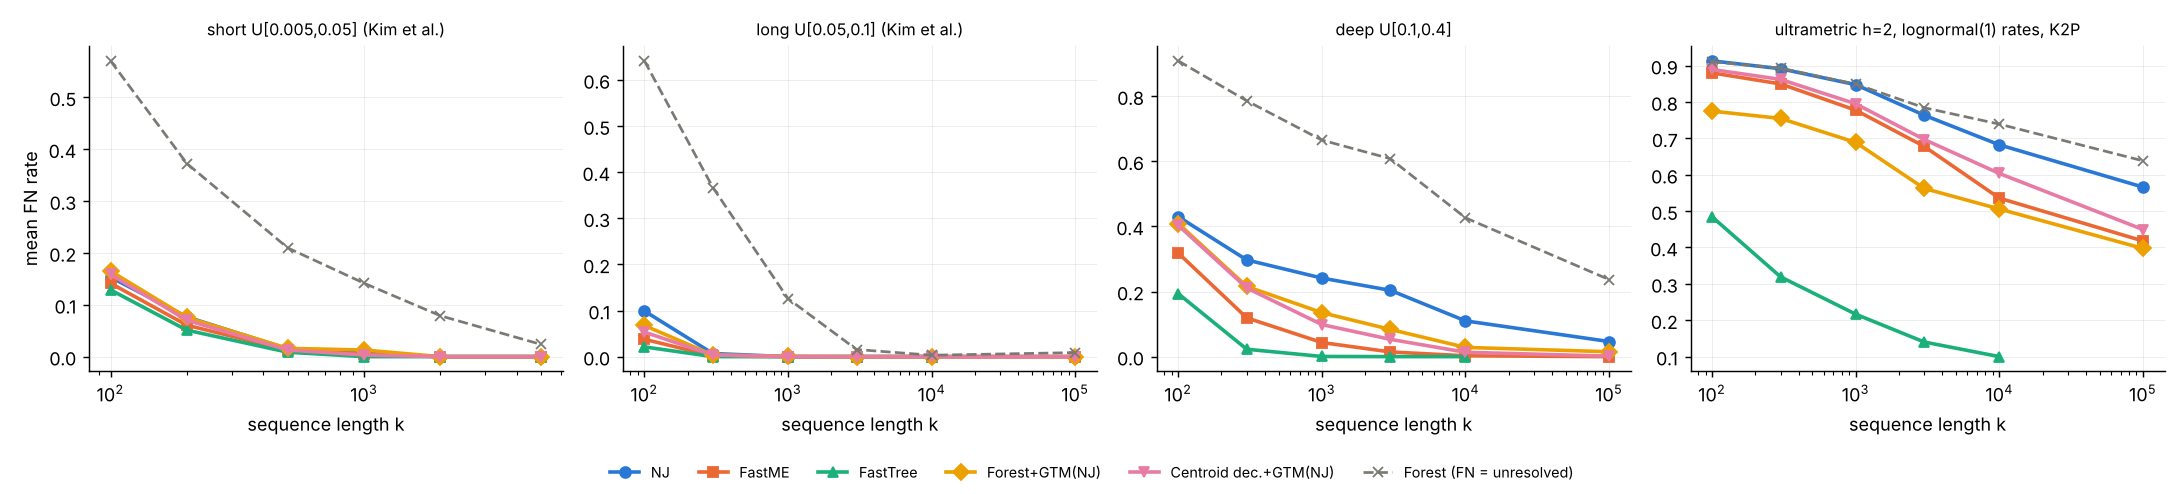
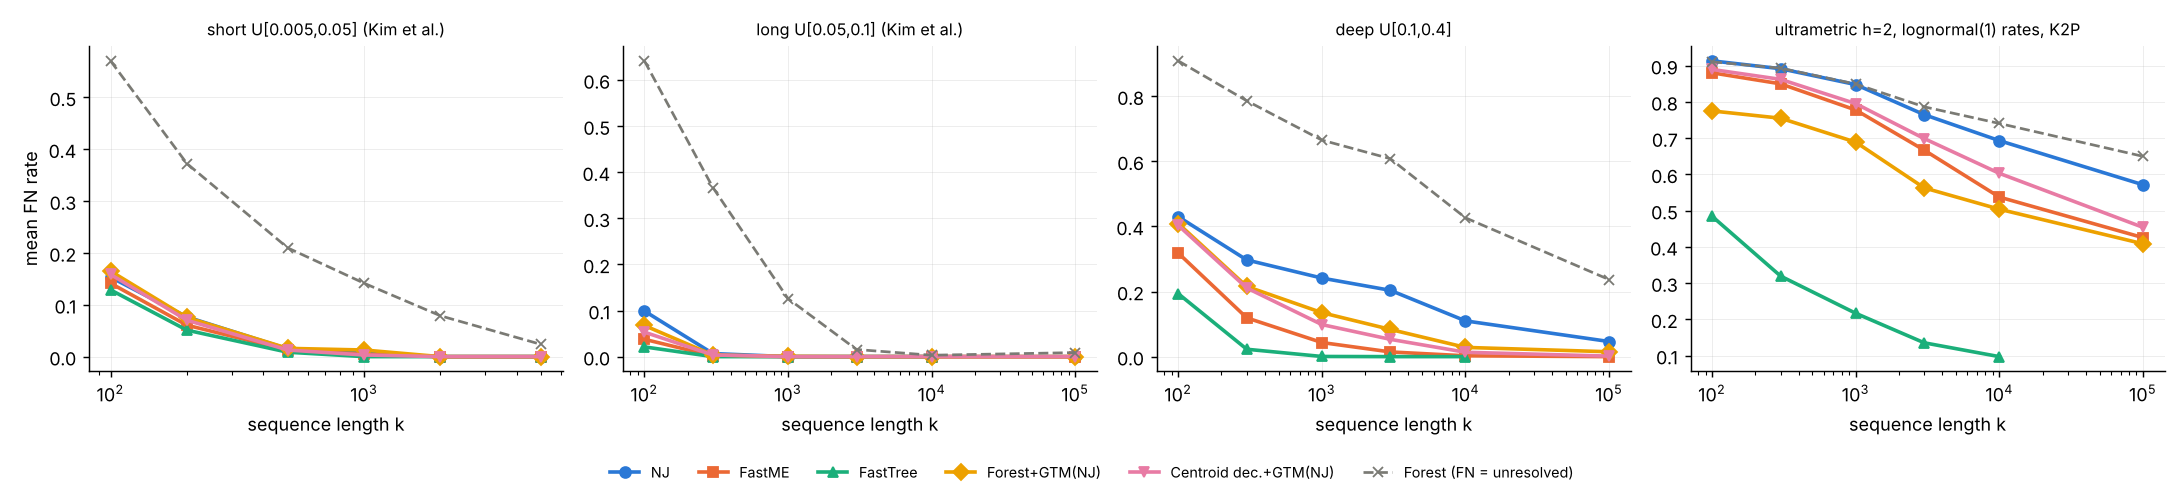
forest: REPORT results, follow-up, verdict; plots

diff --git a/cs581/forest/code/analyze.py b/cs581/forest/code/analyze.py
@@ -152,6 +152,26 @@ def main():
     fig.legend(h, l, loc="lower center", ncol=6, fontsize=8, frameon=False)
     fig.tight_layout(rect=(0, 0.08, 1, 1))
     fig.savefig(os.path.join(R, "fn_vs_k.png"), dpi=130)
+    if os.path.exists(ff) and not du.empty:
+        fig, axes = plt.subplots(1, 2, figsize=(8.8, 3.8))
+        ser = [("FastME_cap2", "#2a78d6", "o", "-", "FastME, cap2 (main)"),
+               ("FGTM_FastME", "#2a78d6", "o", "--", "Forest+GTM(FastME), cap2"),
+               ("FastME_pcap", "#eb6834", "s", "-", "FastME, p clipped"),
+               ("FGTM_FastME_pcap", "#eb6834", "s", "--", "Forest+GTM(FastME), p clipped")]
+        for ax, reg in zip(axes, ["U:0.1:0.4", "UH:2.0:1.0"]):
+            g = du[du.regime == reg].groupby("k")
+            for c, col, mk, ls, lab in ser:
+                v = g[f"FN_{c}"].mean()
+                ax.plot(v.index, v.values, color=col, marker=mk, ls=ls, lw=2, ms=6, label=lab)
+            ax.set_xscale("log"); ax.set_title(REG_NAME[reg], fontsize=9); ax.set_xlabel("sequence length k")
+            ax.grid(alpha=0.25, lw=0.5)
+            for sp in ("top", "right"):
+                ax.spines[sp].set_visible(False)
+        axes[0].set_ylabel("mean FN rate")
+        h, l = axes[0].get_legend_handles_labels()
+        fig.legend(h, l, loc="lower center", ncol=2, fontsize=8, frameon=False)
+        fig.tight_layout(rect=(0, 0.14, 1, 1))
+        fig.savefig(os.path.join(R, "saturation_followup.png"), dpi=130)
     print("\n".join(out))
 
 

diff --git a/cs581/forest/REPORT.md b/cs581/forest/REPORT.md
@@ -127,4 +127,206 @@ and:
 dropped; p = 1 when all differences are zero). No multiple-testing correction; with 20 replicates
 p < 0.01 is the bar I treat as a real difference.
 
-RESULTS_PLACEHOLDER
+## 5. Results
+
+Full tables (every method, every cell, all paired tests, Kim-style success rates): `results/summary.md`.
+Raw per-replicate records: `results/main.jsonl` (480 replicates, 0 errors), `results/followup.jsonl` (60),
+`results/large.jsonl` (n = 500), `results/main_coarsegrid.jsonl` (same 480 datasets, coarser Forest grid).
+
+![FN rate vs sequence length](results/fn_vs_k.png)
+
+### 5.1 Mean FN rate (main run, 20 replicates per cell; n = 100, short regime n = 50)
+
+| regime | k | NJ | FastME | FastTree | Forest (FN / FP) | F+GTM(NJ) | F+GTM(FastME) | comps-only+GTM(NJ) | centroid+GTM(NJ) |
+|---|---|---|---|---|---|---|---|---|---|
+| short | 100 | 0.153 | 0.141 | 0.129 | 0.570 / 0.05 | 0.165 | 0.153 | 0.155 | 0.159 |
+| short | 200 | 0.077 | 0.061 | 0.051 | 0.372 / 0.01 | 0.076 | 0.066 | 0.073 | 0.070 |
+| short | 1000 | 0.006 | 0.004 | 0.000 | 0.141 / 0.01 | 0.013 | 0.011 | 0.006 | 0.003 |
+| long | 100 | 0.099 | 0.038 | 0.021 | 0.641 / 0.01 | 0.068 | 0.042 | 0.066 | 0.053 |
+| long | 300 | 0.007 | 0.002 | 0.000 | 0.366 / 0.00 | 0.004 | 0.003 | 0.003 | 0.004 |
+| long | ≥ 1000 | ≤ 0.001 | 0 | 0 | ≤ 0.13 | ≤ 0.001 | ≤ 0.001 | 0 | 0 |
+| deep | 100 | 0.430 | 0.318 | 0.193 | 0.908 / 0.01 | 0.409 | 0.312 | 0.410 | 0.403 |
+| deep | 300 | 0.297 | 0.119 | 0.023 | 0.786 / 0.01 | 0.215 | 0.112 | 0.216 | 0.211 |
+| deep | 1000 | 0.241 | 0.043 | 0.001 | 0.665 / 0.01 | 0.135 | 0.041 | 0.138 | 0.098 |
+| deep | 3000 | 0.204 | 0.014 | 0.000 | 0.608 / 0.01 | 0.084 | 0.014 | 0.088 | 0.053 |
+| deep | 10 000 | 0.110 | 0.003 | 0.000 | 0.426 / 0.00 | 0.028 | 0.003 | 0.044 | 0.013 |
+| deep | 100 000 | 0.046 | 0.000 | — | 0.237 / 0.01 | 0.015 | 0.003 | 0.022 | 0.002 |
+| het | 100 | 0.913 | 0.880 | 0.484 | 0.910 / 0.21 | 0.775 | 0.761 | 0.829 | 0.889 |
+| het | 300 | 0.891 | 0.849 | 0.319 | 0.893 / 0.09 | 0.755 | 0.726 | 0.798 | 0.862 |
+| het | 1000 | 0.847 | 0.777 | 0.216 | 0.849 / 0.03 | 0.689 | 0.642 | 0.716 | 0.795 |
+| het | 3000 | 0.764 | 0.666 | 0.135 | 0.786 / 0.01 | 0.562 | 0.523 | 0.569 | 0.698 |
+| het | 10 000 | 0.693 | 0.537 | 0.097 | 0.740 / 0.00 | 0.504 | 0.405 | 0.507 | 0.603 |
+| het | 100 000 | 0.571 | 0.425 | — | 0.649 / 0.00 | 0.408 | 0.319 | 0.411 | 0.454 |
+
+(F+GTM = Forest+GTM with subset re-estimation; the "induced" refinement variant is worse in every
+hard cell and is listed only in `summary.md`. BIONJ sits between NJ and FastME throughout.)
+
+**Kim et al.-style success rates, short regime (n = 50, 20 replicates):**
+
+| k | P(NJ has no false split) | P(Forest has no false split) | P(Forest fully resolved & correct) | Forest #splits (of 47) |
+|---|---|---|---|---|
+| 100 | 0.00 | 0.40 | 0.00 | 21.4 |
+| 200 | 0.00 | 0.65 | 0.00 | 29.9 |
+| 500 | 0.50 | 0.95 | 0.00 | 37.2 |
+| 1000 | 0.75 | 0.80 | 0.00 | 40.6 |
+| 2000 | 1.00 | 1.00 | 0.00 | 43.3 |
+
+This reproduces the paper's qualitative finding (their Figs. 3 and 5a): with short branches,
+Forest avoids false splits at much shorter k than NJ, but it needs far longer sequences to be fully resolved.
+
+### 5.2 Paired tests (FN rate, A − B; W/T/L with tie band < 1 split; two-sided Wilcoxon, 20 pairs)
+
+| regime | k | F+GTM(NJ) − NJ | F+GTM(FastME) − FastME | F+GTM(NJ) − comps-only+GTM(NJ) | F+GTM(NJ) − centroid+GTM(NJ) | F+GTM(FastME) − FastTree |
+|---|---|---|---|---|---|---|
+| short | 100 | +0.012 (1/10/9, p=0.008) | +0.012 (2/11/7, p=0.04) | +0.010 (0/14/6, p=0.03) | +0.006 (5/7/8, p=0.3) | +0.024 (3/4/13, p=0.03) |
+| short | 1000 | +0.006 (0/16/4, p=0.06) | +0.006 (0/16/4, p=0.06) | +0.006 (0/16/4, p=0.06) | +0.010 (0/13/7, p=0.01) | +0.011 (0/13/7, p=0.02) |
+| long | 100 | −0.031 (18/2/0, p=2e-4) | +0.004 (3/9/8, p=0.09) | +0.002 (0/18/2, p=0.18) | +0.014 (4/2/14, p=0.02) | +0.021 (1/4/15, p=8e-4) |
+| long | 300 | −0.003 (6/13/1, p=0.06) | +0.001 (0/18/2, p=0.16) | +0.001 (0/19/1, p=0.32) | 0.000 (3/14/3, p=1) | +0.003 (0/16/4, p=0.06) |
+| deep | 300 | −0.081 (20/0/0, p=9e-5) | −0.007 (11/6/3, p=0.03) | −0.001 (3/15/2, p=0.49) | +0.005 (8/3/9, p=0.54) | +0.089 (0/0/20, p=9e-5) |
+| deep | 1000 | −0.106 (20/0/0, p=9e-5) | −0.003 (7/11/2, p=0.17) | −0.003 (3/15/2, p=0.28) | +0.037 (4/0/16, p=0.003) | +0.040 (0/0/20, p=8e-5) |
+| deep | 3000 | −0.120 (20/0/0, p=9e-5) | 0.000 (3/14/3, p=0.59) | −0.004 (6/13/1, p=0.15) | +0.030 (3/1/16, p=0.006) | +0.014 (0/3/17, p=2e-4) |
+| deep | 10 000 | −0.081 (19/1/0, p=1e-4) | +0.001 (0/19/1, p=0.32) | −0.016 (6/13/1, p=0.06) | +0.015 (3/4/13, p=0.007) | +0.003 (0/15/5, p=0.03) |
+| het | 100 | −0.138 (20/0/0, p=9e-5) | −0.119 (20/0/0, p=9e-5) | −0.054 (15/4/1, p=6e-4) | −0.114 (19/0/1, p=1e-4) | +0.277 (0/0/20, p=9e-5) |
+| het | 1000 | −0.159 (20/0/0, p=9e-5) | −0.135 (20/0/0, p=9e-5) | −0.027 (7/12/1, p=0.02) | −0.106 (16/0/4, p=5e-4) | +0.426 (0/0/20, p=9e-5) |
+| het | 10 000 | −0.189 (20/0/0, p=9e-5) | −0.132 (20/0/0, p=2e-6) | −0.003 (2/17/1, p=0.29) | −0.099 (17/1/2, p=3e-4) | +0.308 (0/0/20, p=9e-5) |
+| het | 100 000 | −0.163 (20/0/0, p=9e-5) | −0.107 (20/0/0, p=9e-5) | −0.003 (1/19/0, p=0.32) | −0.045 (17/0/3, p=0.008) | — |
+
+(All 24 cells are in `results/summary.md`; omitted rows are all-tie or say the same thing.)
+
+**Reading.**
+
+1. **Kim et al.'s regimes (short, long): no headroom.** Everything is near zero by k = 300–1000. At
+   k = 100 Forest+GTM is slightly *worse* than NJ in the short regime (+0.012, p = 0.008): the
+   Forest's few false splits are hard constraints that GTM must keep. The one win, F+GTM(NJ) vs NJ
+   in the long regime at k = 100 (−0.031), is smaller than just using FastME (−0.061), and
+   F+GTM(FastME) does not beat FastME.
+2. **Deep regime: Forest+GTM(NJ) beats NJ by 8–12 FN points (20/0/0)**, but the Forest itself is not
+   the reason. Dropping all Forest splits and keeping only its components gives the same
+   accuracy (comps-only − F+GTM within 0.016, p ≥ 0.06). A standard centroid decomposition with no
+   Forest is *better* for k = 1000–10 000 (by 0.015–0.037, p ≤ 0.007). With a FastME guide there is
+   nothing to gain: F+GTM(FastME) − FastME is between −0.007 and +0.003. FastTree is 4–12 points
+   better than every distance pipeline at k ≤ 1000.
+3. **Rate-heterogeneous K2P regime: large, consistent wins (−0.11 to −0.20 FN vs NJ and FastME,
+   20/0/0), but they come from an artifact (§5.3).** This is the only regime where the Forest's own
+   splits add anything beyond its components (−0.054 at k = 100, −0.027 at k = 1000), and it is also the
+   regime where FastTree is 28–43 points better.
+
+### 5.3 Follow-up: the het-regime win is a saturation-handling artifact
+
+In the main run, saturated distances (undefined JC/K2P correction) were replaced by 2 × the largest
+finite distance (cap2) before NJ/FastME. In the het regime, 17–56 % of pairs are saturated. Same
+datasets, 10 replicates per cell (`code/followup.py`, `results/followup.jsonl`):
+
+![saturation follow-up](results/saturation_followup.png)
+
+| regime | k | FastME cap2 | FastME cap1.2 | FastME cap5 | FastME p-clipped | F+GTM(FastME) cap2 | F+GTM(FastME) p-clipped | F+GTM − FastME, p-clipped |
+|---|---|---|---|---|---|---|---|---|
+| deep | 300 | 0.101 | 0.037 | 0.335 | 0.098 | 0.092 | 0.097 | −0.001 (2/7/1, p=0.75) |
+| deep | 3000 | 0.015 | 0.001 | 0.053 | 0.002 | 0.015 | 0.004 | +0.002 (0/8/2, p=0.5) |
+| deep | 100 000 | 0.000 | 0.000 | 0.001 | 0.000 | 0.004 | 0.004 | +0.004 (0/7/3, p=0.25) |
+| het | 300 | 0.821 | 0.765 | 0.869 | 0.373 | 0.687 | 0.390 | +0.017 (4/2/4, p=0.31) |
+| het | 3000 | 0.666 | 0.589 | 0.701 | 0.251 | 0.519 | 0.238 | −0.012 (6/2/2, p=0.12) |
+| het | 100 000 | 0.373 | 0.330 | 0.448 | 0.145 | 0.275 | 0.118 | −0.028 (9/0/1, p=0.004) |
+
+("p-clipped": the mismatch proportion is clipped at 0.75(1 − 1/√k) for JC, or transversions at
+0.5(1 − 1/√k) for K2P, before the correction, so no distance is infinite.)
+
+* How saturated pairs are handled moves FastME by **up to 45 FN points**, far more than any merger
+  effect. Under cap2, Forest+GTM "wins" because the Forest's threshold graph (d < m) simply never
+  uses the corrupted distances. A better distance correction removes most of that advantage.
+* With clipped distances, Forest+GTM(FastME) vs FastME is a tie at k = 300 and 3000. At k = 100 000 it
+  wins by 2.8 points (9/0/1, p = 0.004), and FastTree is already better at a tenth of that length (0.097 FN at k = 10 000).
+* In the deep regime, a different cap (1.2 instead of 2) helps FastME more (0.101 → 0.037 at
+  k = 300) than Forest+GTM does (0.101 → 0.092).
+* The FastME-guided controls again match: comps-only + GTM(FastME) = F+GTM(FastME) within 0.025 in every cell.
+
+### 5.4 Sensitivity to the Forest grid
+
+The same 480 datasets were also run with a coarser grid (7 τ × 5 m × 2 M instead of 10 × 7 × 2,
+`results/main_coarsegrid.jsonl`). The denser grid yields 1.5–6 more Forest splits per tree and
+slightly more false ones (0.03–0.17 more per tree). Merged accuracy changes by ≤ 0.013 FN in every
+regime (deep: F+GTM(NJ) 0.161 → 0.148; het: 0.619 → 0.615). The conclusions do not depend on the grid.
+
+LARGE_PLACEHOLDER
+
+## 6. Runtime
+
+Mean wall-clock seconds per replicate (one core per replicate; 4–8 replicates were sharing 4 cores, so all numbers are inflated by up to ~2×):
+
+| regime, n | k | NJ | FastME | FastTree | Forest grid search (≈ 140 points) | Forest+GTM total | centroid + GTM |
+|---|---|---|---|---|---|---|---|
+| short, 50 | 100–5000 | 0.01 | 0.02 | 0.2–8 | 0.6–1.8 | 0.9–2.2 | 0.3 |
+| long, 100 | 100–100 000 | 0.1 | 0.1 | 0.4–44 | 3–11 | 3–12 | 0.4 |
+| deep, 100 | 100–100 000 | 0.1 | 0.1 | 0.6–45 | 5–13 | 6–13 | 0.4 |
+| het, 100 | 100–100 000 | 0.05 | 0.1 | 1–66 | 13–66 | 14–67 | 0.3 |
+| deep, 500 | 300 | 1.8 | 8.6 | 7.3 | 206 (reduced grid, 18 points) | 209 | 2.2 |
+
+The GTM merge itself takes < 0.5 s. The Forest grid search costs 10–1000 × NJ. My re-implementation is
+40–80 × faster per grid point than distphylo (0.17 s vs 8–15 s at n = 128), but each point is still
+Θ(n²) leaf pairs × a sort over the ball, i.e. ≈ n³ log n. At n = 500 one replicate takes 3–5 min even
+with the reduced grid, and n = 1000 would take ~30–60 min per replicate. (Kim et al. report 13.6 h for
+one n = 1000 grid.) FastTree is the slowest baseline only at k ≥ 10 000.
+
+## 7. Verdict: **not promising** (as a "beat the baselines" project)
+
+* In the regimes Kim et al. use, nothing is left to gain: NJ/FastME are almost perfect by k = 300–1000,
+  and Forest+GTM is equal or slightly worse (forced false splits).
+* Where Forest+GTM(NJ) does beat NJ (deep trees, 8–12 points), the gain comes from the DCM/DTM
+  mechanism (small subsets re-estimated, then merged), not from the Forest. Forest components
+  without Forest splits do equally well, and an ordinary centroid decomposition + GTM does
+  better. With a FastME guide the improvement disappears.
+* The only large win (het regime, 10–20 points) comes from the baseline's handling of saturated
+  distances. With a sensible distance correction it shrinks to a tie, or 2.8 points at k = 100 000.
+* FastTree beats every distance-based pipeline by a wide margin in every hard cell (e.g. deep k = 300:
+  0.023 vs 0.112; het k = 1000: 0.22 vs 0.64). The comparison a CS581 reader will ask for is lost before it starts.
+* The Forest is expensive (≈ n³ log n per grid point, ~140 grid points) for what it delivers.
+  Its components are what matter, and those are just the connected components of the threshold
+  graph d < m, i.e. a DCM-style decomposition that costs O(n²).
+
+**What *is* solid and reusable from the pilot:** a fast, validated DMR Forest implementation
+(identical to distphylo on 102/102 grid points, 40–80 × faster); a true-tree-free hyperparameter rule
+that reaches 95/125 correct splits on distphylo's example (their dense grid, set with knowledge of the
+true tree, reaches 99); and a clean negative result with the right controls.
+
+### If someone still wants a 4-week project here
+
+The defensible versions are about *understanding*, not leaderboard wins:
+
+1. **"Is the Forest worth it inside DCM?"** (the cleanest result from this pilot). Compare Forest
+   components vs threshold-graph components vs centroid decomposition vs DCM1 padding, all + GTM,
+   on deep / heterogeneous model trees (Huson–Nettles–Warnow style), with NJ, FastME and FastTree as
+   subset and guide methods. Expected answer: the threshold graph does the work. Week 1 is
+   done (this pilot); weeks 2–3 are DCM1 / overlapping subsets with a supertree merger and
+   n = 500–1000 using the fast code; week 4 is the write-up.
+2. **Forest components as constraints for ML** (Kim et al.'s third hybrid): give
+   IQ-TREE / FastTree `-constraints` the Forest's (rarely wrong) splits and test whether short-sequence ML
+   gets better or just faster. The risk is that FastTree is already near-perfect where the Forest is
+   resolved.
+3. **Theory side:** under what branch-length conditions do the Forest's components equal those
+   of the plain threshold graph, so that MiniContractor/Extender add nothing for DTM purposes?
+
+### Risks / caveats of this pilot
+
+* One implementation of each step: GTM in its default `convex` mode only, no TreeMerge/NJMerge.
+  The subset refinement is my choice, forced by GTM's loader resolving polytomies arbitrarily.
+* Distances are model-matched (JC/JC, K2P/K2P). No gamma rate heterogeneity across sites and no
+  model misspecification, which is the setting where Kim et al. found Forest most robust (their Fig. 7).
+* 20 replicates per cell, n ≤ 100 for the main grid; n = 500 only with a reduced grid and 5 replicates.
+* The Forest hyperparameter rule is mine (following the paper's guidance). A rule tuned per regime
+  could add splits, but §5.4 suggests the merged tree would barely change.
+* FastTree was not run at k = 100 000 (~4 min per run); every method is ≈ 0 there in the easy regimes.
+
+## Reproducing
+
+```
+# tools: FastME 2.1.6, IQ-TREE 3.1.4 (AliSim) via micromamba/bioconda; FastTree 2.1.11 (apt);
+# python: numpy scipy pandas dendropy networkx biopython matplotlib
+git clone https://github.com/lanl/distphylo ~/ext/distphylo; git clone https://github.com/vlasmirnov/GTM ~/ext/GTM
+python code/validate_small.py ~/ext/distphylo results/validation_small.tsv
+python code/validate_forest.py ~/ext/distphylo results/validation_distphylo_0.tsv 0   # grid point 0..4
+python code/run_exp.py results/main.jsonl main 4      # restartable
+python code/followup.py results/followup.jsonl 4
+python code/run_exp.py results/large.jsonl large 4
+python code/analyze.py results                        # -> results/summary.md, *.png
+```
+Binary paths can be overridden with FASTME, FASTTREE, IQTREE and GTM environment variables (`code/pipeline.py`).

diff --git a/cs581/forest/results/summary.md b/cs581/forest/results/summary.md
@@ -1,4 +1,4 @@
-Replicates: 477 ok, 0 errors.
+Replicates: 480 ok, 0 errors.
 
 
 ### short U[0.005,0.05] (Kim et al.), n=50
@@ -203,9 +203,9 @@ Mean FN rate (FP rate for Forest in brackets; Forest FN = 1 - correct splits/(n-
 | 100 | 20 | 0.53 | 0.913 | 0.854 | 0.880 | 0.484 | 0.910 [0.184] | 0.775 | 0.827 | 0.761 | 0.804 | 0.829 | 0.889 | 15.6 | 2.45 |
 | 300 | 20 | 0.48 | 0.891 | 0.811 | 0.849 | 0.319 | 0.893 [0.163] | 0.755 | 0.796 | 0.726 | 0.769 | 0.798 | 0.862 | 15.2 | 2.05 |
 | 1000 | 20 | 0.44 | 0.847 | 0.756 | 0.777 | 0.216 | 0.849 [0.030] | 0.689 | 0.745 | 0.642 | 0.710 | 0.716 | 0.795 | 21.8 | 0.40 |
-| 3000 | 19 | 0.35 | 0.763 | 0.678 | 0.678 | 0.140 | 0.784 [0.017] | 0.562 | 0.653 | 0.531 | 0.610 | 0.569 | 0.697 | 21.9 | 0.26 |
-| 10000 | 19 | 0.23 | 0.682 | 0.600 | 0.536 | 0.100 | 0.739 [0.010] | 0.506 | 0.585 | 0.405 | 0.483 | 0.509 | 0.603 | 22.3 | 0.21 |
-| 100000 | 19 | 0.18 | 0.566 | 0.468 | 0.418 | — | 0.638 [0.000] | 0.397 | 0.475 | 0.310 | 0.361 | 0.397 | 0.449 | 20.3 | 0.00 |
+| 3000 | 20 | 0.35 | 0.764 | 0.675 | 0.666 | 0.135 | 0.786 [0.016] | 0.562 | 0.654 | 0.523 | 0.601 | 0.569 | 0.698 | 22.1 | 0.25 |
+| 10000 | 20 | 0.23 | 0.693 | 0.614 | 0.537 | 0.097 | 0.740 [0.010] | 0.504 | 0.590 | 0.405 | 0.488 | 0.507 | 0.603 | 21.9 | 0.20 |
+| 100000 | 20 | 0.19 | 0.571 | 0.470 | 0.425 | — | 0.649 [0.000] | 0.408 | 0.482 | 0.319 | 0.371 | 0.411 | 0.454 | 19.4 | 0.00 |
 
 Paired two-sided Wilcoxon on FN rate (A − B; negative = A better). W/T/L = A better / tie / A worse, tie band |diff| < 0.5/(n−3) (less than one split).
 
@@ -229,23 +229,23 @@ Paired two-sided Wilcoxon on FN rate (A − B; negative = A better). W/T/L = A b
 | 1000 | Forest+GTM(NJ) | Forest comps only+GTM(NJ) | -0.0273 | 7/12/1 | 0.017 |
 | 1000 | Forest+GTM(NJ) | Centroid dec.+GTM(NJ) | -0.1062 | 16/0/4 | 0.00051 |
 | 1000 | Forest+GTM(NJ) | FastTree | +0.4722 | 0/0/20 | 8.8e-05 |
-| 3000 | Forest+GTM(NJ) | NJ | -0.2013 | 19/0/0 | 0.00013 |
-| 3000 | Forest+GTM(FastME) | FastME | -0.1470 | 19/0/0 | 0.00013 |
-| 3000 | Forest+GTM(NJ) | FastME | -0.1156 | 16/1/2 | 0.00033 |
-| 3000 | Forest+GTM(NJ) | Forest comps only+GTM(NJ) | -0.0065 | 2/17/0 | 0.18 |
-| 3000 | Forest+GTM(NJ) | Centroid dec.+GTM(NJ) | -0.1346 | 17/1/1 | 0.00023 |
-| 3000 | Forest+GTM(NJ) | FastTree | +0.4221 | 0/0/19 | 0.00013 |
-| 10000 | Forest+GTM(NJ) | NJ | -0.1763 | 19/0/0 | 0.00013 |
-| 10000 | Forest+GTM(FastME) | FastME | -0.1308 | 19/0/0 | 3.8e-06 |
-| 10000 | Forest+GTM(NJ) | FastME | -0.0298 | 11/0/8 | 0.46 |
-| 10000 | Forest+GTM(NJ) | Forest comps only+GTM(NJ) | -0.0033 | 2/16/1 | 0.29 |
-| 10000 | Forest+GTM(NJ) | Centroid dec.+GTM(NJ) | -0.0977 | 16/1/2 | 0.00049 |
-| 10000 | Forest+GTM(NJ) | FastTree | +0.4059 | 0/0/19 | 0.00013 |
-| 100000 | Forest+GTM(NJ) | NJ | -0.1687 | 19/0/0 | 0.00013 |
-| 100000 | Forest+GTM(FastME) | FastME | -0.1074 | 19/0/0 | 0.00013 |
-| 100000 | Forest+GTM(NJ) | FastME | -0.0206 | 10/1/8 | 0.28 |
-| 100000 | Forest+GTM(NJ) | Forest comps only+GTM(NJ) | +0.0000 | 0/19/0 | 1 |
-| 100000 | Forest+GTM(NJ) | Centroid dec.+GTM(NJ) | -0.0521 | 17/0/2 | 0.0019 |
+| 3000 | Forest+GTM(NJ) | NJ | -0.2021 | 20/0/0 | 8.8e-05 |
+| 3000 | Forest+GTM(FastME) | FastME | -0.1433 | 20/0/0 | 8.8e-05 |
+| 3000 | Forest+GTM(NJ) | FastME | -0.1041 | 16/1/3 | 0.00054 |
+| 3000 | Forest+GTM(NJ) | Forest comps only+GTM(NJ) | -0.0062 | 2/18/0 | 0.18 |
+| 3000 | Forest+GTM(NJ) | Centroid dec.+GTM(NJ) | -0.1361 | 18/1/1 | 0.00015 |
+| 3000 | Forest+GTM(NJ) | FastTree | +0.4273 | 0/0/20 | 8.8e-05 |
+| 10000 | Forest+GTM(NJ) | NJ | -0.1892 | 20/0/0 | 8.8e-05 |
+| 10000 | Forest+GTM(FastME) | FastME | -0.1325 | 20/0/0 | 1.9e-06 |
+| 10000 | Forest+GTM(NJ) | FastME | -0.0335 | 12/0/8 | 0.34 |
+| 10000 | Forest+GTM(NJ) | Forest comps only+GTM(NJ) | -0.0031 | 2/17/1 | 0.29 |
+| 10000 | Forest+GTM(NJ) | Centroid dec.+GTM(NJ) | -0.0990 | 17/1/2 | 0.00031 |
+| 10000 | Forest+GTM(NJ) | FastTree | +0.4067 | 0/0/20 | 8.8e-05 |
+| 100000 | Forest+GTM(NJ) | NJ | -0.1629 | 20/0/0 | 8.8e-05 |
+| 100000 | Forest+GTM(FastME) | FastME | -0.1067 | 20/0/0 | 8.8e-05 |
+| 100000 | Forest+GTM(NJ) | FastME | -0.0170 | 10/1/9 | 0.34 |
+| 100000 | Forest+GTM(NJ) | Forest comps only+GTM(NJ) | -0.0031 | 1/19/0 | 0.32 |
+| 100000 | Forest+GTM(NJ) | Centroid dec.+GTM(NJ) | -0.0454 | 17/0/3 | 0.0076 |
 
 Kim et al. style success rates: P(no incorrect split) and P(fully resolved and correct).
 
@@ -254,9 +254,9 @@ Kim et al. style success rates: P(no incorrect split) and P(fully resolved and c
 | 100 | 0.00 | 0.30 | 0.00 | 0.00 | 11.2 / 97 |
 | 300 | 0.00 | 0.35 | 0.00 | 0.00 | 12.4 / 97 |
 | 1000 | 0.00 | 0.65 | 0.00 | 0.00 | 15.1 / 97 |
-| 3000 | 0.00 | 0.79 | 0.00 | 0.00 | 21.2 / 97 |
-| 10000 | 0.00 | 0.89 | 0.00 | 0.00 | 25.5 / 97 |
-| 100000 | 0.00 | 1.00 | 0.00 | 0.00 | 35.1 / 97 |
+| 3000 | 0.00 | 0.80 | 0.00 | 0.00 | 21.0 / 97 |
+| 10000 | 0.00 | 0.90 | 0.00 | 0.00 | 25.4 / 97 |
+| 100000 | 0.00 | 1.00 | 0.00 | 0.00 | 34.0 / 97 |
 
 ### Runtime (mean seconds per replicate, single core)
 
@@ -283,26 +283,28 @@ Kim et al. style success rates: P(no incorrect split) and P(fully resolved and c
 | UH:2.0:1.0 | 100 | 100 | 0.04 | 0.14 | 1.1 | 13.7 | 14.0 | 0.34 |
 | UH:2.0:1.0 | 100 | 300 | 0.05 | 0.14 | 2.3 | 12.8 | 13.2 | 0.33 |
 | UH:2.0:1.0 | 100 | 1000 | 0.05 | 0.14 | 6.5 | 18.9 | 19.3 | 0.35 |
-| UH:2.0:1.0 | 100 | 3000 | 0.05 | 0.12 | 19.6 | 32.4 | 32.8 | 0.33 |
-| UH:2.0:1.0 | 100 | 10000 | 0.04 | 0.11 | 66.8 | 69.3 | 69.6 | 0.36 |
-| UH:2.0:1.0 | 100 | 100000 | 0.05 | 0.09 |  | 65.6 | 65.9 | 0.33 |
+| UH:2.0:1.0 | 100 | 3000 | 0.05 | 0.12 | 19.6 | 32.6 | 32.9 | 0.32 |
+| UH:2.0:1.0 | 100 | 10000 | 0.04 | 0.11 | 66.2 | 66.3 | 66.6 | 0.35 |
+| UH:2.0:1.0 | 100 | 100000 | 0.05 | 0.10 |  | 63.6 | 63.9 | 0.33 |
 
-### Large trees (n=500; reduced grid; 1 replicates, 0 errors)
+### Large trees (n=500; reduced grid; 3 replicates, 0 errors)
 
 | regime | k | reps | NJ | FastME | FastTree | Forest | Forest+GTM(NJ) | Forest+GTM(FastME) | Centroid dec.+GTM(NJ) | Forest #comp | t_Forest (s) |
 |---|---|---|---|---|---|---|---|---|---|---|---|
 | U:0.1:0.4 | 300 | 1 | 0.326 | 0.278 | 0.048 | 1.000 | 0.326 | 0.278 | 0.344 | 433 | 206 |
+| U:0.1:0.4 | 3000 | 1 | 0.262 | 0.024 | 0.034 | 0.976 | 0.254 | 0.024 | 0.109 | 310 | 246 |
+| UH:2.0:1.0 | 300 | 1 | 0.861 | 0.674 | 0.225 | 0.938 | 0.644 | 0.541 | 0.781 | 141 | 276 |
 
 Paired tests (n=500, all k pooled):
 
 | A | B | mean diff | W/T/L | p | N |
 |---|---|---|---|---|---|
-| Forest+GTM(NJ) | NJ | +0.0000 | 0/1/0 | 1 | 1 |
-| Forest+GTM(FastME) | FastME | +0.0000 | 0/1/0 | 1 | 1 |
-| Forest+GTM(NJ) | FastME | +0.0483 | 0/0/1 | 1 | 1 |
-| Forest+GTM(NJ) | Forest comps only+GTM(NJ) | +0.0000 | 0/1/0 | 1 | 1 |
-| Forest+GTM(NJ) | Centroid dec.+GTM(NJ) | -0.0181 | 1/0/0 | 1 | 1 |
-| Forest+GTM(NJ) | FastTree | +0.2777 | 0/0/1 | 1 | 1 |
+| Forest+GTM(NJ) | NJ | -0.0751 | 2/1/0 | 0.5 | 3 |
+| Forest+GTM(FastME) | FastME | -0.0443 | 1/2/0 | 1 | 3 |
+| Forest+GTM(NJ) | FastME | +0.0825 | 1/0/2 | 0.5 | 3 |
+| Forest+GTM(NJ) | Forest comps only+GTM(NJ) | +0.0000 | 0/3/0 | 1 | 3 |
+| Forest+GTM(NJ) | Centroid dec.+GTM(NJ) | -0.0034 | 2/0/1 | 1 | 3 |
+| Forest+GTM(NJ) | FastTree | +0.3052 | 0/0/3 | 0.25 | 3 |
 
 ### Follow-up: saturation handling and FastME-guided controls (60 replicates, 0 errors)
 
